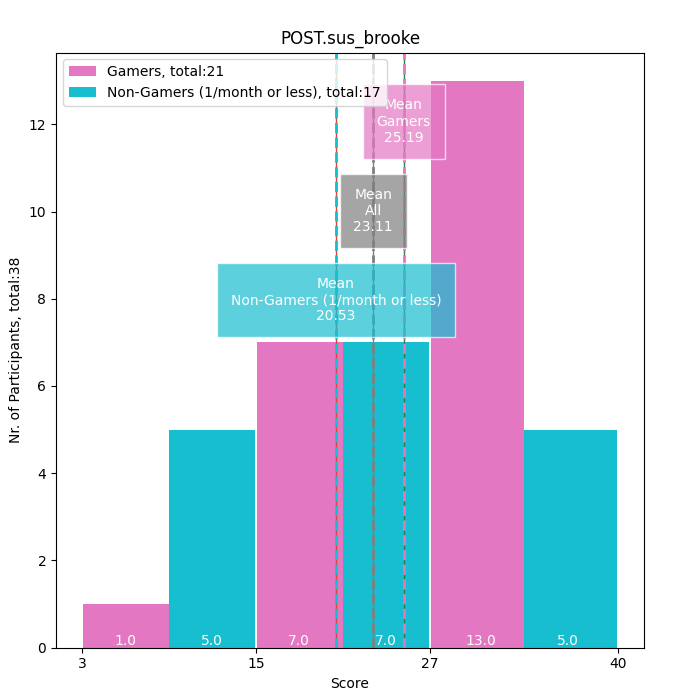
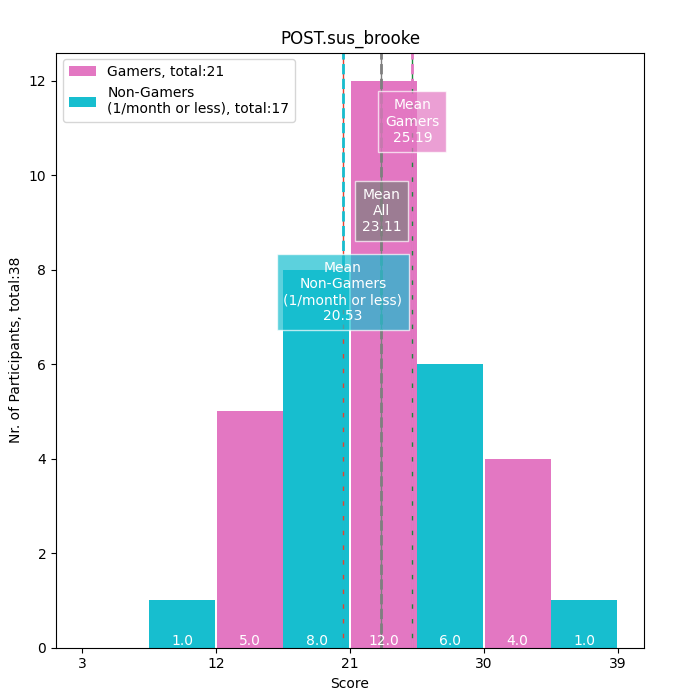
better plot rounding

diff --git a/me.html b/me.html
@@ -15,24 +15,24 @@
         <link rel='stylesheet' href='node_modules/xterm/Source/slugs/css/xterm.css' />
         <script src='node_modules/xterm/lib/xterm.js'></script>
         -->
-        <link rel='stylesheet' href='Source/slugs/css/terminal.css?v=159' />
+        <link rel='stylesheet' href='Source/slugs/css/terminal.css?v=160' />
         <!-- our implementation -->
-        <link rel='stylesheet' href='Source/slugs/css/style.css?v=159'>
+        <link rel='stylesheet' href='Source/slugs/css/style.css?v=160'>
 
-        <script src='Source/slugs/js/color.js?v=159'></script>
-        <script src='Source/slugs/js/velocity.js?v=159'></script>
-        <script src='Source/slugs/js/helpers.js?v=159'></script>
+        <script src='Source/slugs/js/color.js?v=160'></script>
+        <script src='Source/slugs/js/velocity.js?v=160'></script>
+        <script src='Source/slugs/js/helpers.js?v=160'></script>
 
-        <script src='Source/slugs/js/slug.js?v=159'></script>
-        <script src='Source/slugs/js/snake.js?v=159'></script>
-        <!-- <script src='Source/slugs/js/sluggy.js?v=159'></script> -->
+        <script src='Source/slugs/js/slug.js?v=160'></script>
+        <script src='Source/slugs/js/snake.js?v=160'></script>
+        <!-- <script src='Source/slugs/js/sluggy.js?v=160'></script> -->
 
-        <script src='Source/slugs/js/narration.js?v=159'></script>
+        <script src='Source/slugs/js/narration.js?v=160'></script>
 
-        <script src='Source/slugs/js/Scene2.js?v=159'></script>
-        <script src='Source/slugs/js/game.js?v=159'></script>
+        <script src='Source/slugs/js/Scene2.js?v=160'></script>
+        <script src='Source/slugs/js/game.js?v=160'></script>
 
-        <script src='Source/slugs/js/exercise.js?v=159'></script>
+        <script src='Source/slugs/js/exercise.js?v=160'></script>
     
 </head>
 <title>slugs</title>
@@ -53,7 +53,7 @@
             <div id='autocomplete_suggestions' onclick='{(e) => e.stopPropagation(); terminal_input.focus()}'></div>
         </div>
         
-        <script src = 'Source/slugs/js/terminal.js?v=159'></script>
+        <script src = 'Source/slugs/js/terminal.js?v=160'></script>
         
     </div>
 

diff --git a/Source/data/scoring.py b/Source/data/scoring.py
@@ -7,7 +7,7 @@ import matplotlib.pyplot as plt
 import matplotlib.ticker as ticker
 import numpy as np
 from statistics import mean, stdev
-from math import sqrt
+from math import sqrt, floor, ceil
 from pprint import pprint
 
 import pandas as pd
@@ -27,7 +27,7 @@ headers = headers_demo + headers_questionnaires + headers_delta
 
 
 colors = plt.rcParams['axes.prop_cycle'].by_key()['color']
-labels_colors = {'FLINTA*': '#77F', 'Male':colors[1], 'Gamers':colors[6], 'Non-Gamers (1/month or less)':colors[9], 'all': colors[7]}
+labels_colors = {'FLINTA*': '#77F', 'Male':colors[1], 'Gamers':colors[6], 'Non-Gamers\n(1/month or less)':colors[9], 'all': colors[7]}
 
 def get_complementary(color):
     # strip the # from the beginning
@@ -47,7 +47,7 @@ def get_complementary(color):
     return comp_color
 
 
-def plot_hist(all,a,b,title,label_a, label_b, include_experienced=True, save=True):
+def plot_hist(min_bins, all,a,b,title,label_a, label_b, include_experienced=True, save=True):
     fig, ax = plt.subplots(1,1)
     fig.set_size_inches(7, 7)
     # plt.tight_layout()
@@ -56,16 +56,21 @@ def plot_hist(all,a,b,title,label_a, label_b, include_experienced=True, save=Tru
     plt.xlabel('Score')
     plt.ylabel(f'Nr. of Participants, total:{len(all)}')
 
+    bins=np.arange(all.min(), all.max()+1, round((all.max()-all.min())/min_bins))
+    if len(bins) <= min_bins: bins=np.arange(all.min(), all.max()+1, round((all.max()-all.min())/(min_bins+1)))
+    bins=np.ceil(bins)
     counts, bins, patches = plt.hist([a, b], 
         label = [f'{label_a}, total:{len(a)}', f'{label_b}, total:{len(b)}'], 
         rwidth=.99, 
         # stacked=True,
-        bins=np.floor(np.arange(all.min(), all.max()+1, (all.max()-all.min())/3)),
+        bins=bins,
         color=[labels_colors[label_a], labels_colors[label_b]],
         )
     # print(bins, all.max(), all.min())
     plt.legend(loc='upper left')
     
+    # print(bins)
+
     # Set the ticks to be at the edges of the bins.
     ax.set_xticks(bins)
     # Set the xaxis's tick labels to be formatted with 1 decimal place...
@@ -89,24 +94,26 @@ def plot_hist(all,a,b,title,label_a, label_b, include_experienced=True, save=Tru
     plt.axvline(a.mean(), linestyle='solid', linewidth=1, color=get_complementary(labels_colors[label_a]))
     plt.axvline(a.mean(), linestyle='dashed', linewidth=2, color=labels_colors[label_a])
     min_ylim, max_ylim = plt.ylim()
-    plt.text(a.mean(), max_ylim*0.85, f'Mean\n{label_a}\n{a.mean() :.2f}', ha='center', color='white',bbox=dict(facecolor=labels_colors[label_a],boxstyle='square',edgecolor='white',pad=1,  alpha=0.7))
+    plt.text(a.mean(), max_ylim*0.85, f'Mean\n{label_a}\n{a.mean() :.2f}', ha='center', color='white',bbox=dict(facecolor=labels_colors[label_a],boxstyle='square',edgecolor='white',pad=.5,  alpha=0.7))
 
     plt.axvline(b.mean(), linestyle='solid', linewidth=1, color=get_complementary(labels_colors[label_b]))
     plt.axvline(b.mean(), linestyle='dashed', linewidth=2, color=labels_colors[label_b])
     min_ylim, max_ylim = plt.ylim()
-    plt.text(b.mean(), max_ylim*0.55, f'Mean\n{label_b}\n{b.mean() :.2f}', ha='center', color='white',bbox=dict(facecolor=labels_colors[label_b],boxstyle='square',edgecolor='white',pad=1,  alpha=0.7))
+    plt.text(b.mean(), max_ylim*0.55, f'Mean\n{label_b}\n{b.mean() :.2f}', ha='center', color='white',bbox=dict(facecolor=labels_colors[label_b],boxstyle='square',edgecolor='white',pad=.5,  alpha=0.7))
 
     plt.axvline(all.mean(), linestyle='solid', linewidth=1, color=get_complementary(labels_colors['all']))
     plt.axvline(all.mean(), linestyle='dashed', linewidth=2, color=labels_colors['all'])
     min_ylim, max_ylim = plt.ylim()
-    plt.text(all.mean(), max_ylim*0.7, f'Mean\nAll\n{all.mean() :.2f}', ha='center', color='white',bbox=dict(facecolor=labels_colors['all'],boxstyle='square',edgecolor='white',pad=1,  alpha=0.7))
+    plt.text(all.mean(), max_ylim*0.7, f'Mean\nAll\n{all.mean() :.2f}', ha='center', color='white',bbox=dict(facecolor=labels_colors['all'],boxstyle='square',edgecolor='white',pad=.5,  alpha=0.7))
 
     # ax.xaxis.set_major_locator(ticker.MultipleLocator(1))
     if(save):
         path = 'figures/'
         if not include_experienced:
             path += 'no_js_exp/'
-        plt.savefig(f'{path}{title}-{label_a.split(" ")[0]}_{label_b.split(" ")[0]}.png')
+        name1 = label_a.replace("\n", " ").replace("*", "").split(" ")[0]
+        name2 = label_b.replace("\n", " ").replace("*", "").split(" ")[0]
+        plt.savefig(f'{path}{title}-{name1}_{name2}.png')
 
 def merge(): 
     """ used to merge pre and post test data that has since been discarded """
@@ -391,9 +398,9 @@ def plot(input, include_experienced=True, save=True, show=False):
     print(f'{len(df_flinta_gamers)=}, {len(df_flinta_nongamers)=}, {len(df_male_gamers)=},{len(df_male_nongamers)=}')
 
 
-    plot_hist(df[d], df_gamers[d], df_nongamers[d], d, 'Gamers', 'Non-Gamers (1/month or less)', include_experienced, save)
+    plot_hist(4, df[d], df_gamers[d], df_nongamers[d], d, 'Gamers', 'Non-Gamers\n(1/month or less)', include_experienced, save)
     for d in headers_relevant:
-        plot_hist(df[d], df_flinta[d], df_male[d], d, 'FLINTA*', 'Male', include_experienced, save)
+        plot_hist(4, df[d], df_flinta[d], df_male[d], d, 'FLINTA*', 'Male', include_experienced, save)
     
     if(show):
         plt.show()
